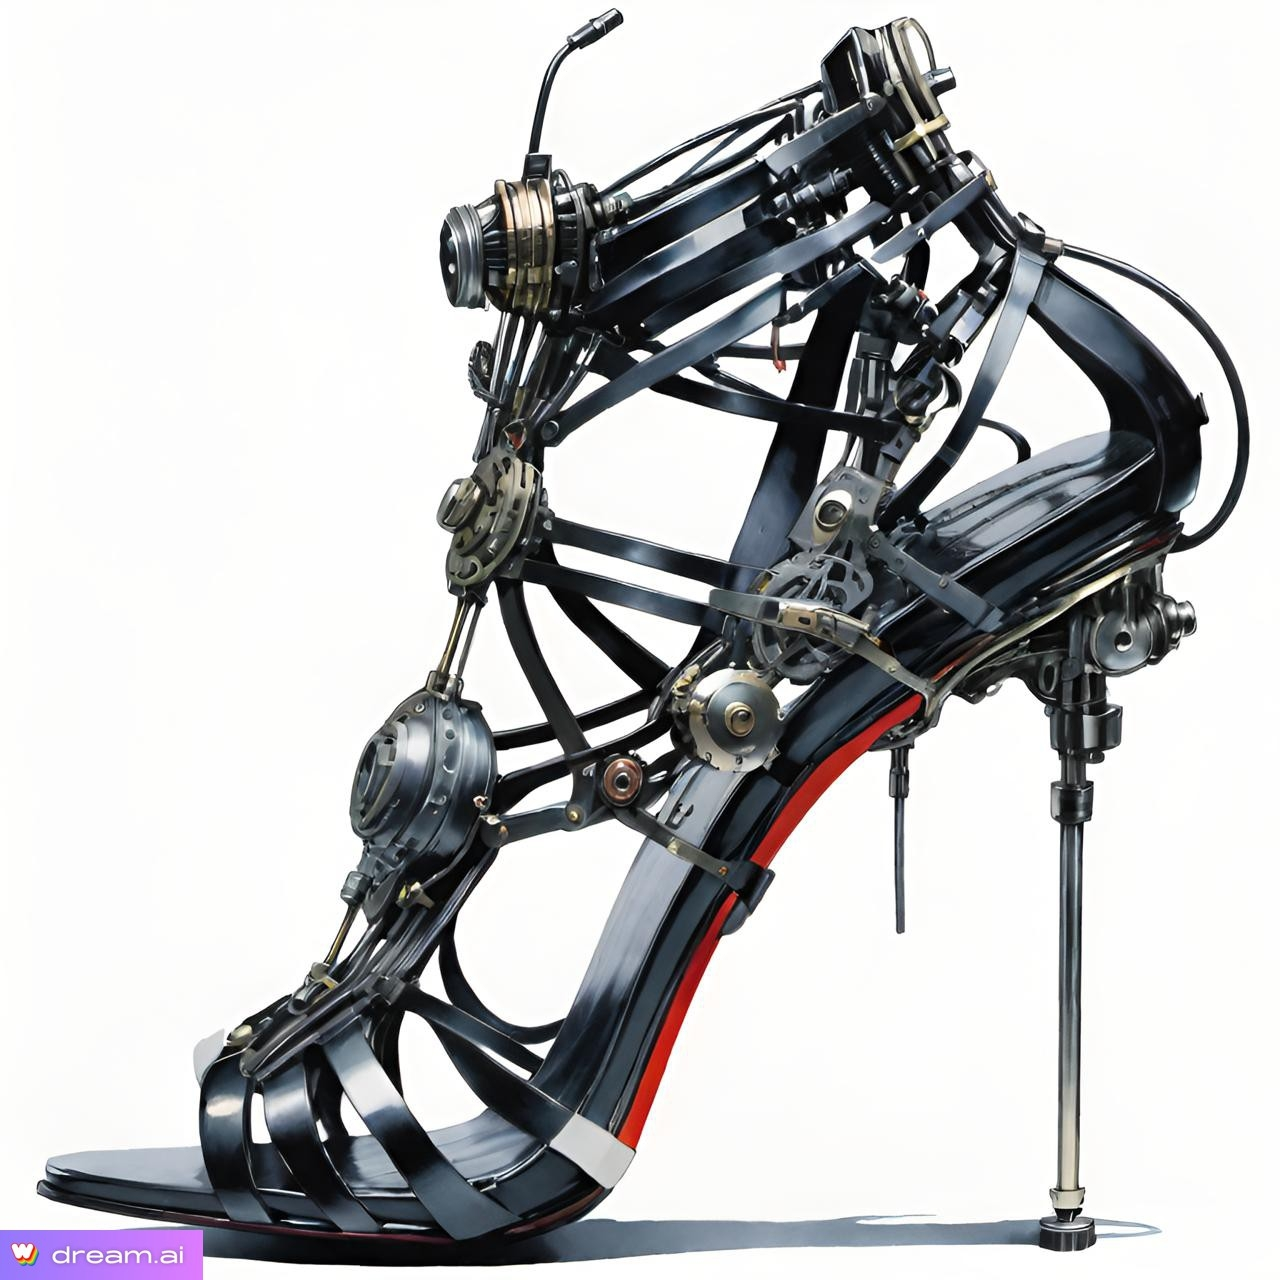
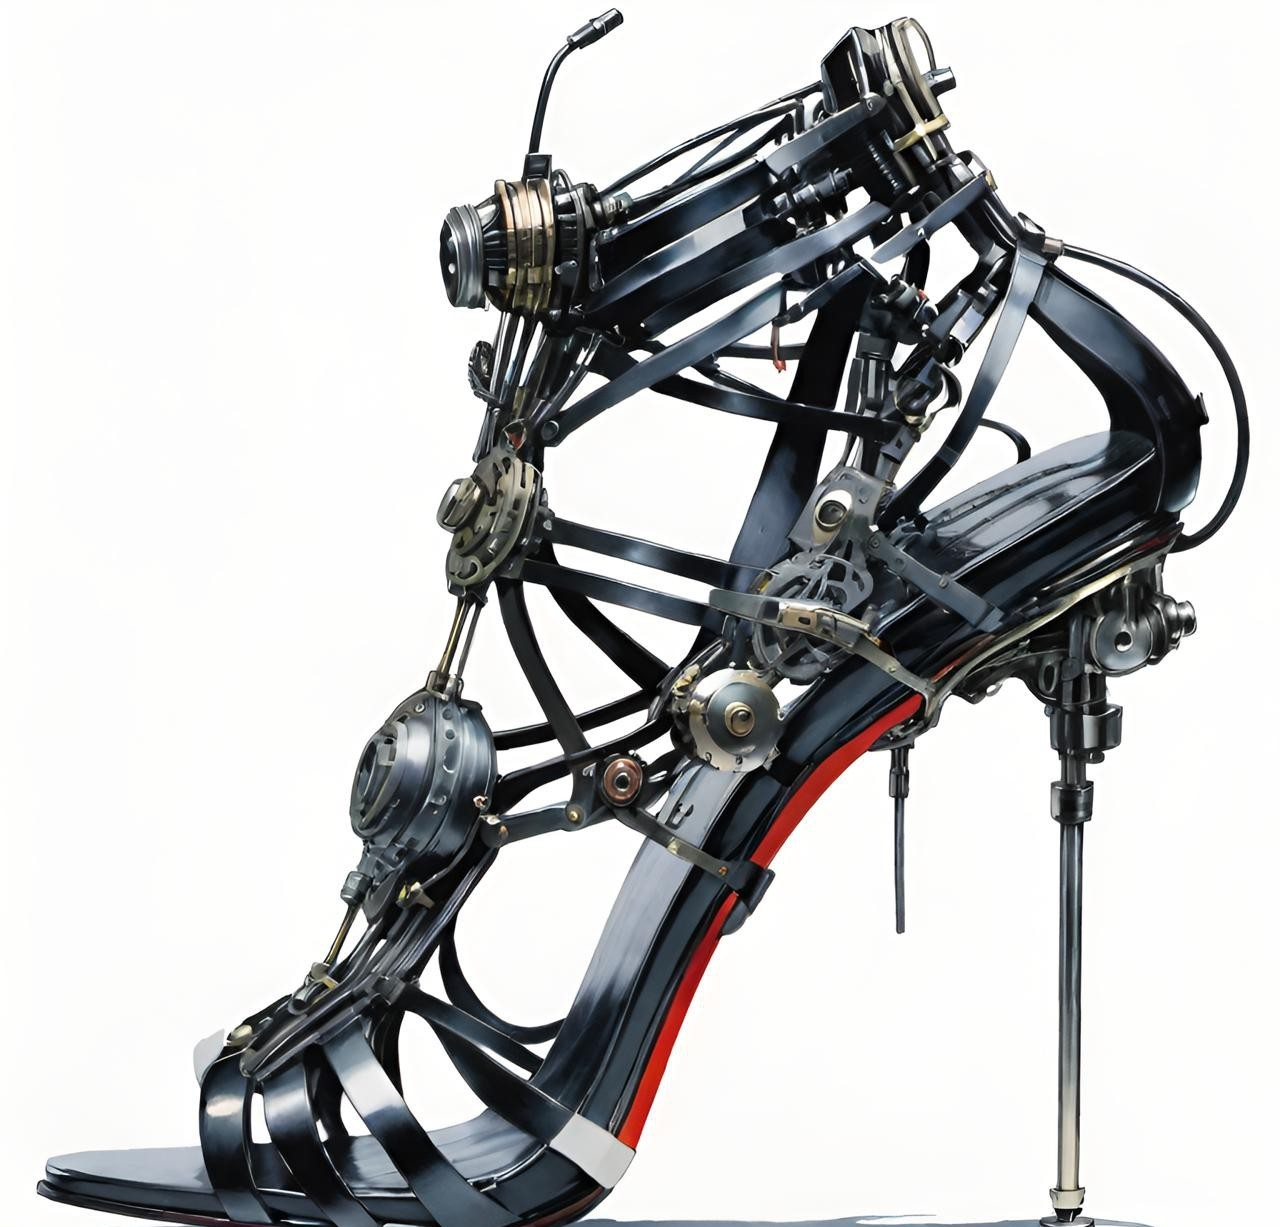
front page temp-conversion image

diff --git a/index.html b/index.html
@@ -75,6 +75,11 @@
 
  <!-- TEMPERATURE CONVERSION -->
             <section id="conversion-weather-section" class="sect">
+
+                <div id="div-hp-hot-shoes" class="hp-image-divs">
+                    <img id="hot-shoes" class="hp-images" src="img/hp_tempconv.jpg" alt="Very strappy open-toed high heel shoe" />
+                </div>
+
                 <div id="d-temps" class="div-input">
 
                     <h3 id="hp-temp-question"> Is it hot enough to wear those shoes?!</h3>

diff --git a/styles.css b/styles.css
@@ -192,7 +192,26 @@ footer {
 
 /*******    HOME PAGE   ***********/
 
+#hot-shoes {
+    display: block;
+    max-width: 80%;
+    height: auto;
+    margin: 5% 10%;
+    border-radius: 10%;
+    border: 2px solid #160f29;
 
+}
+
+.hp-image-divs {
+    background-color: #328d94;
+    border-radius: 30px;
+    margin: 0px auto;
+
+}
+
+.div-input {
+    margin: 0px 3vh 30% 3vh;
+}
 
 
 
